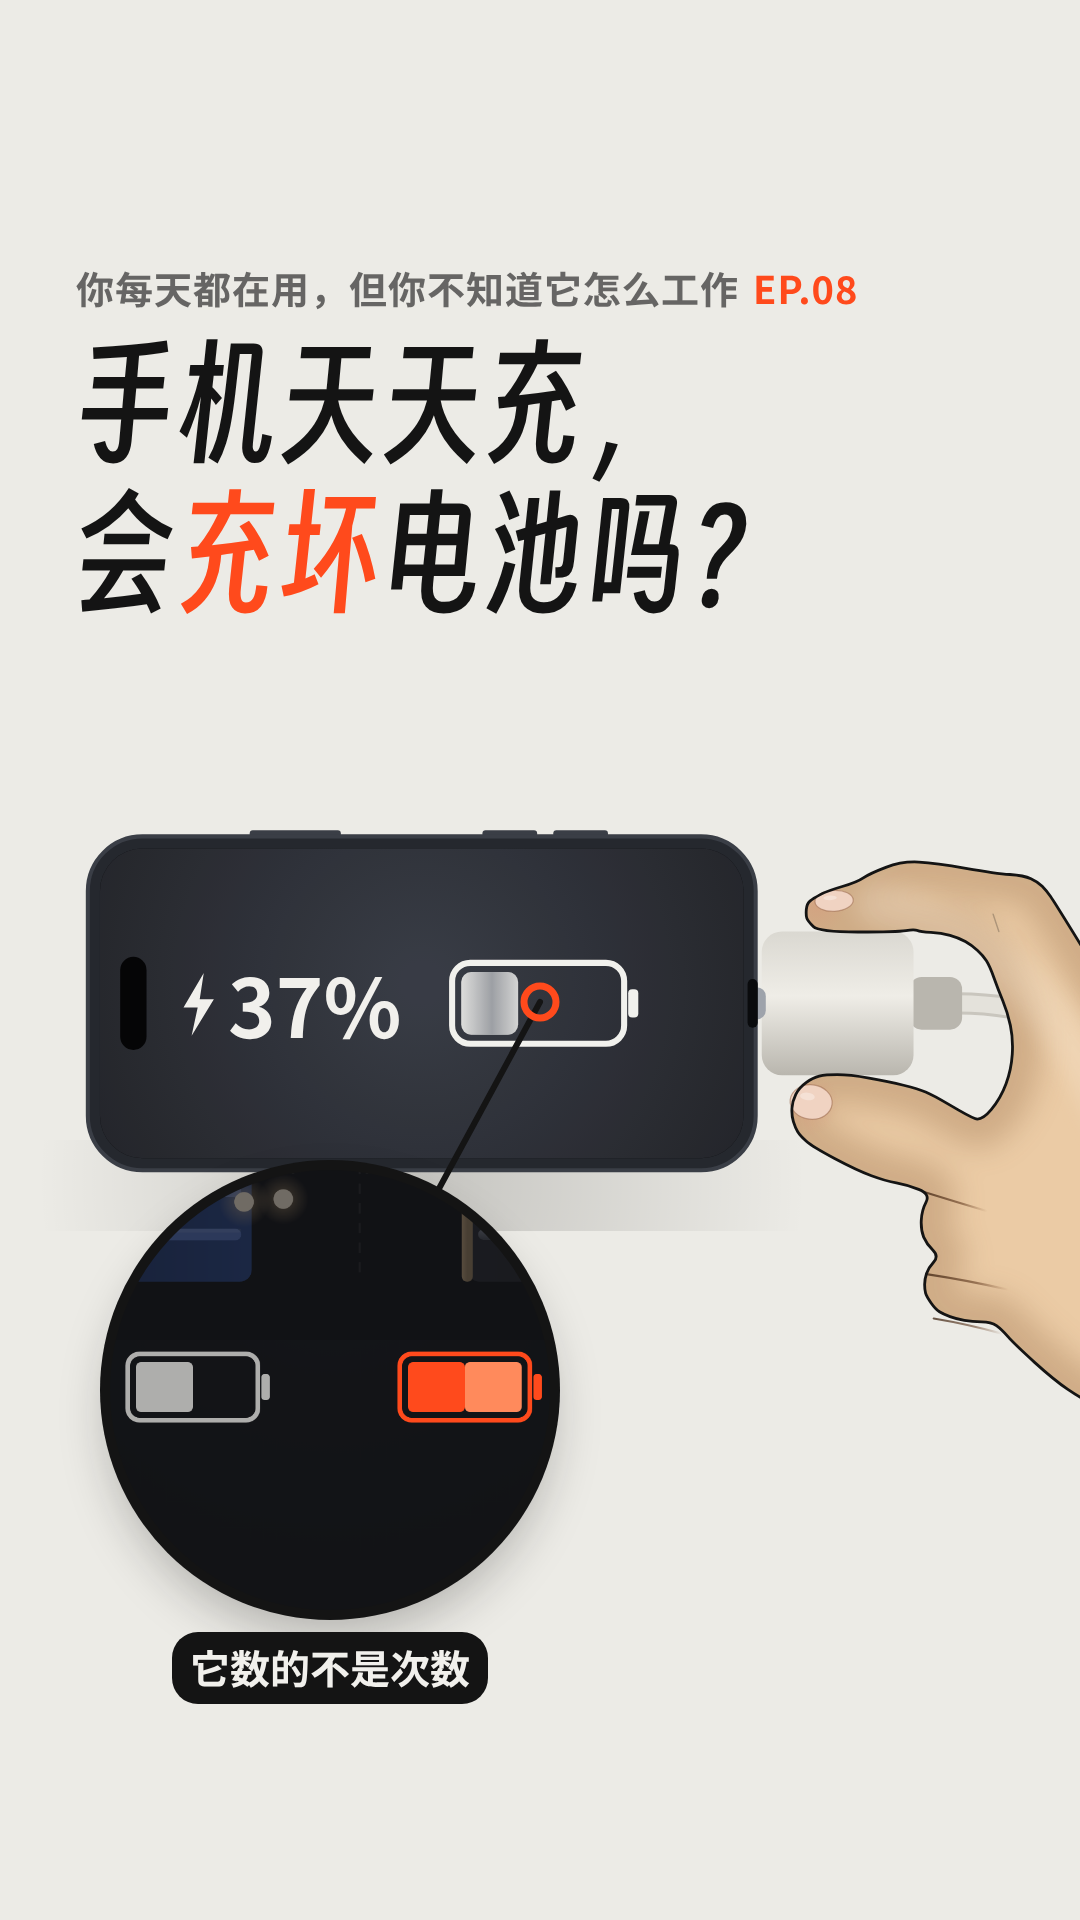
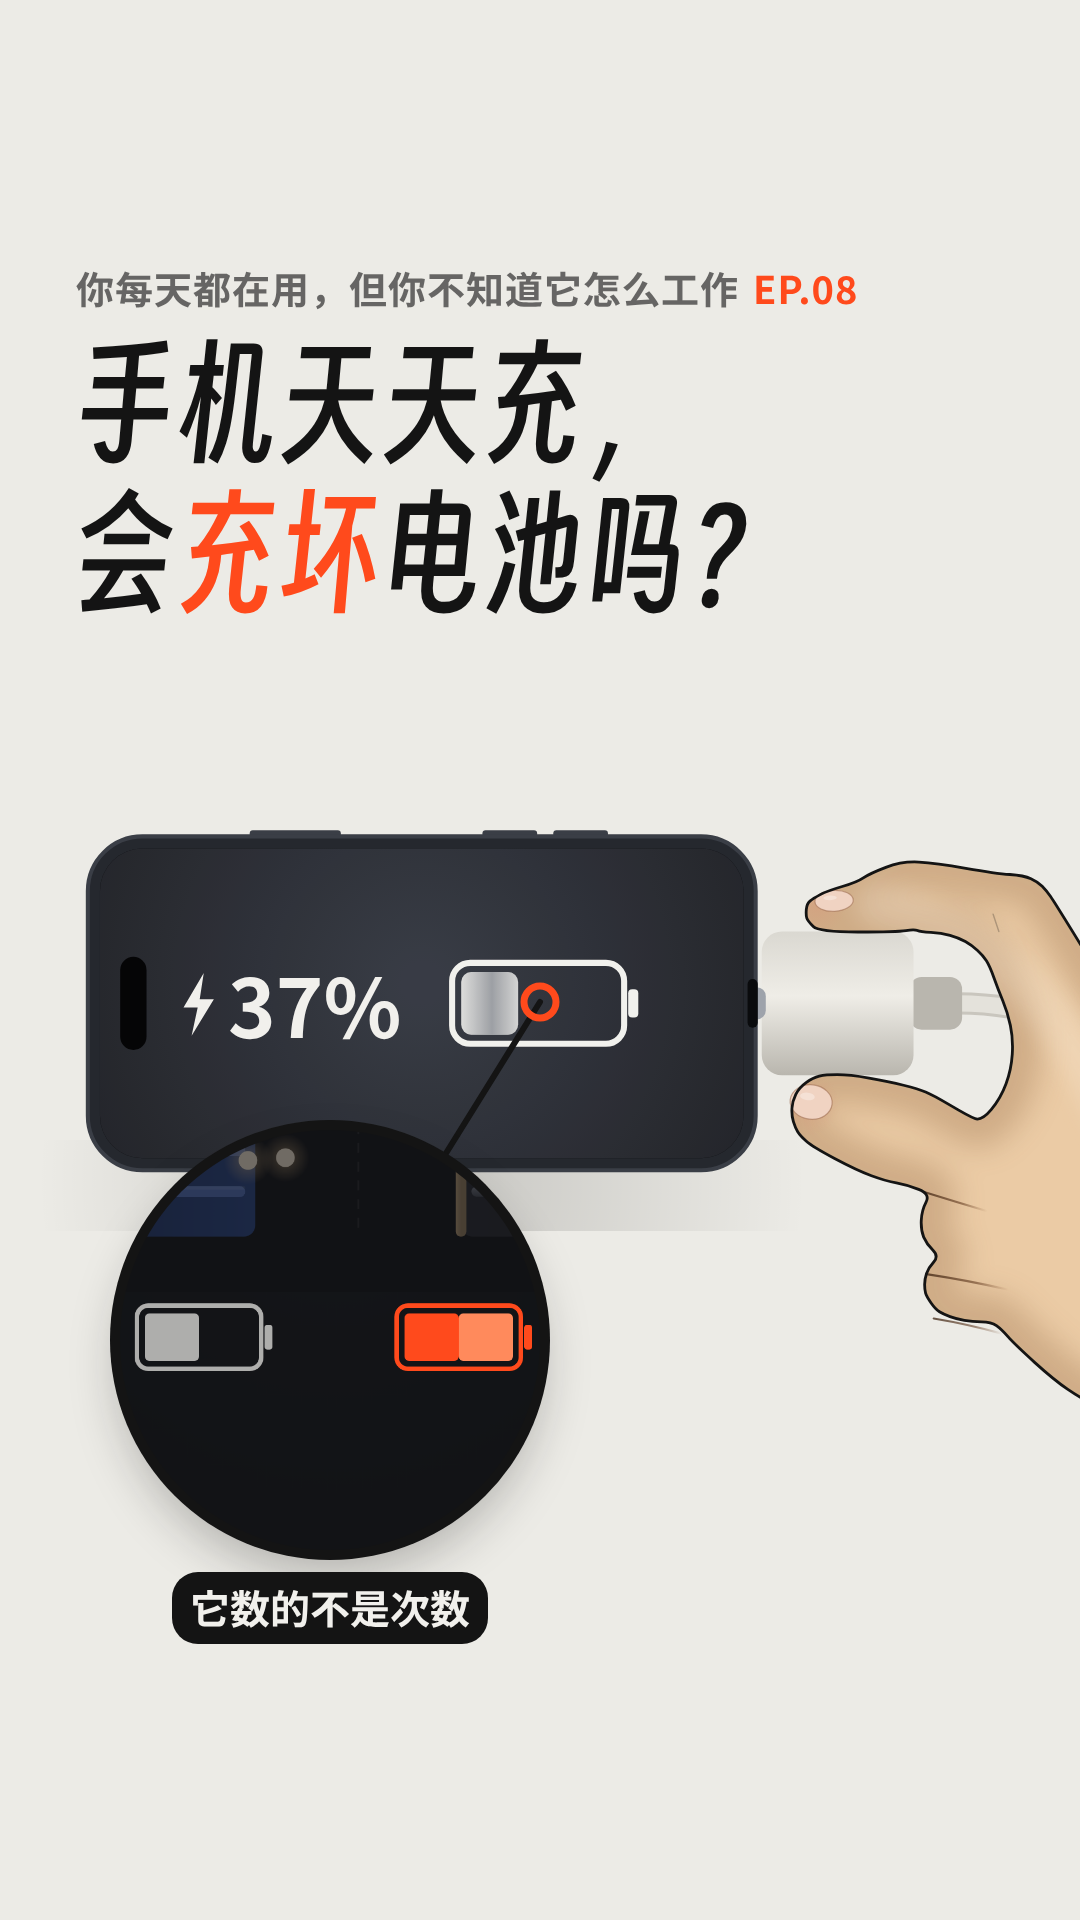
为什么 EP.08：按节点 ③ 审核改文案（老得更快）、置顶评论用系列模板、抖音封面放大镜收进 3:4 安全区
Claude-Session: https://claude.ai/code/session_012pd22mwokuUYEfLWzkk7E1

Changed region(s): [[0.0917, 0.5625, 0.5194, 0.9062], [0.4583, 0.5312, 0.4889, 0.5625]]

diff --git a/templates/weishenme/covers/ep08-douyin.html b/templates/weishenme/covers/ep08-douyin.html
@@ -9,19 +9,19 @@
   .ser i { font-style: normal; color: #FF4A1C; font-weight: 700; margin-left: 14px; }
   .t { position: absolute; left: 72px; font: 128px "Smiley"; color: #141414; white-space: nowrap; line-height: 1; }
   .t b { font-weight: normal; color: #FF4A1C; }
-  .inset { position: absolute; left: 110px; top: 1170px; width: 440px; height: 440px; border-radius: 50%;
-    background: #17191C url("art/ep08-inset.png") no-repeat; background-size: 638.7096774193549px 1135.483870967742px; background-position: -94.6236559139785px -486.7204301075269px;
+  .inset { position: absolute; left: 120px; top: 1130px; width: 420px; height: 420px; border-radius: 50%;
+    background: #17191C url("art/ep08-inset.png") no-repeat; background-size: 609.6774193548388px 1083.8709677419356px; background-position: -90.3225806451613px -464.5967741935484px;
     box-shadow: 0 0 0 10px #141414, 0 24px 50px rgba(20,20,20,0.28); }
   svg { position: absolute; left: 0; top: 0; }
   .inset2 { display: none; position: absolute; left: 0px; top: 0px; width: 0px; height: 0px; border-radius: 50%;
     background: #ECEBE6 url("art/.png") no-repeat; background-size: 0px 0px; background-position: 0px 0px;
     box-shadow: 0 0 0 8px #141414, 0 18px 40px rgba(20,20,20,0.25); }
   .itag2 { position: absolute; left: 0px; top: 0px; transform: translateX(-50%); font: 700 38px "NotoSC"; color: #F1F0EC; background: #141414; padding: 6px 16px 8px; border-radius: 24px; white-space: nowrap; }
-  .itag { position: absolute; left: 330px; top: 1632px; transform: translateX(-50%); font: 700 40px "NotoSC"; color: #F1F0EC; background: #141414; padding: 6px 18px 8px; border-radius: 26px; white-space: nowrap; }
+  .itag { position: absolute; left: 330px; top: 1572px; transform: translateX(-50%); font: 700 40px "NotoSC"; color: #F1F0EC; background: #141414; padding: 6px 18px 8px; border-radius: 26px; white-space: nowrap; }
   </style></head><body><div id="cv">
   <div class="hero"></div>
   <svg width="1080" height="1920">
-    <line x1="540" y1="1002" x2="437.5739766720535" y2="1191.2442716725868" stroke="#141414" stroke-width="6" stroke-linecap="round"/>
+    <line x1="540" y1="1002" x2="443.9914400336702" y2="1156.5280631839023" stroke="#141414" stroke-width="6" stroke-linecap="round"/>
     <circle cx="540" cy="1002" r="16" fill="none" stroke="#FF4A1C" stroke-width="7"/></svg>
   <div class="wash"></div>
   <div class="ser">你每天都在用，但你不知道它怎么工作<i>EP.08</i></div>

diff --git a/episodes/weishenme/08-chongdian/publish.md b/episodes/weishenme/08-chongdian/publish.md
@@ -12,8 +12,8 @@
 **描述**
 
 ```text
-手机一天充好几次，会把电池充坏吗？电池数的不是你插了几次，是累计用掉了多少电。真正让它变老的，是一直又满又热。
-#为什么系列 #手机电池 #电池寿命 #充电循环 #优化电池充电 #锂电池 #手机充电 #科普
+手机一天充好几次，会把电池充坏吗？电池数的不是你插了几次，是累计用掉了多少电。让它老得更快的，是一直又满又热。
+#为什么系列 #手机电池 #电池寿命 #充电循环 #充电优化 #锂电池老化 #手机充电 #手机冷知识 #涨知识 #科普
 ```
 
 ## 小红书
@@ -51,23 +51,23 @@
 
 画面说明：锂、膜、被粘住的锂和电池缩短的比例都是示意。
 
-#手机电池 #电池寿命 #充电循环 #优化电池充电 #锂电池 #锂电池老化 #手机充电技巧 #充电习惯 #科普 #为什么系列
+#手机电池 #电池寿命 #充电循环 #优化电池充电 #充电优化 #锂电池老化 #手机充电技巧 #充电习惯 #科普 #为什么系列
 ```
 
-## 置顶评论（两个平台通用）
-
-```text
-你的手机开了「80% 上限」或「优化充电」吗？还是每晚都充到 100%？
-```
-
-可以再加一条（系列模板）：
+## 置顶评论（两个平台通用，系列模板）
 
 ```text
 下一集你想看什么？留言点名，点赞最多的先做。
 ```
 
+可选：作者再发一条引导互动（要不要换成置顶由你定）：
+
+```text
+你的手机开了「80% 上限」或「充电优化」吗？还是每晚都充到 100%？
+```
+
 ## 备注
-- 搜索关键词：手机电池寿命、充电循环、优化电池充电、锂电池老化、手机充电技巧。抖音话题覆盖电池寿命、充电循环、优化电池充电、锂电池、手机充电；小红书话题五个全覆盖；「电池」「充坏」在两个标题里。
+- 搜索关键词：手机电池寿命、充电循环、优化电池充电、锂电池老化、手机充电技巧。抖音话题覆盖电池寿命、充电循环、充电优化、锂电池老化、手机充电；小红书话题五个全覆盖（另加 #充电优化，比 iPhone 的功能名「优化电池充电」更中性）；「电池」「充坏」在两个标题里。
 - 不点名品牌、不评哪家好；「有的手机能设 80% 上限」不写具体机型（FACTS #15）。
 - 依据：循环按累计用电算（FACTS #1、#16）；SEI 变厚、锂被粘住、容量下降（#5、#7、#13）；又满又热老得快（#6）；夜里先停 80%、起床前充满（#8）；充满不再往里充（#14）；设置上限（#15）；80% 小窗说的是整颗电池（#17）；充电时发烫先取下保护壳（#9）。
 - 「取下厚壳」只写在正文，片中只演示（先暂停游戏、再取下壳）。
